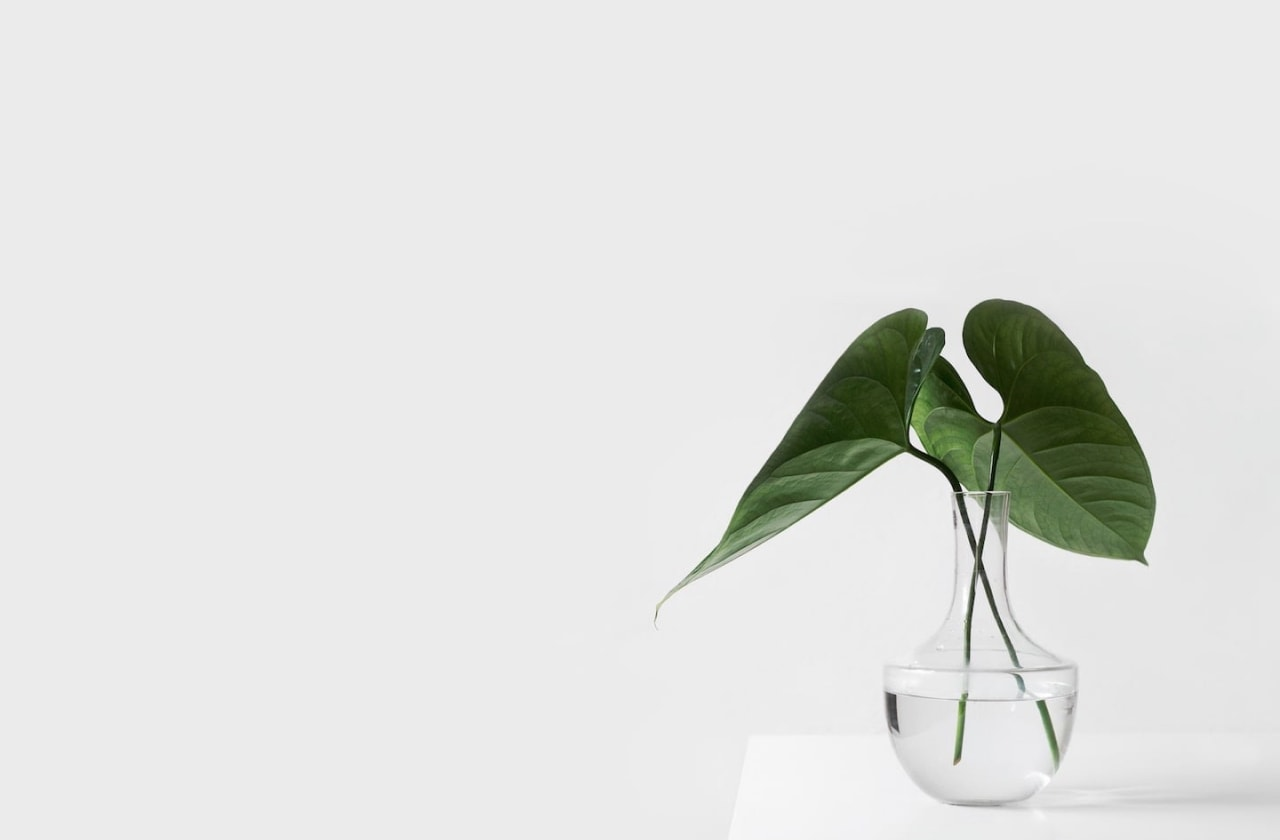
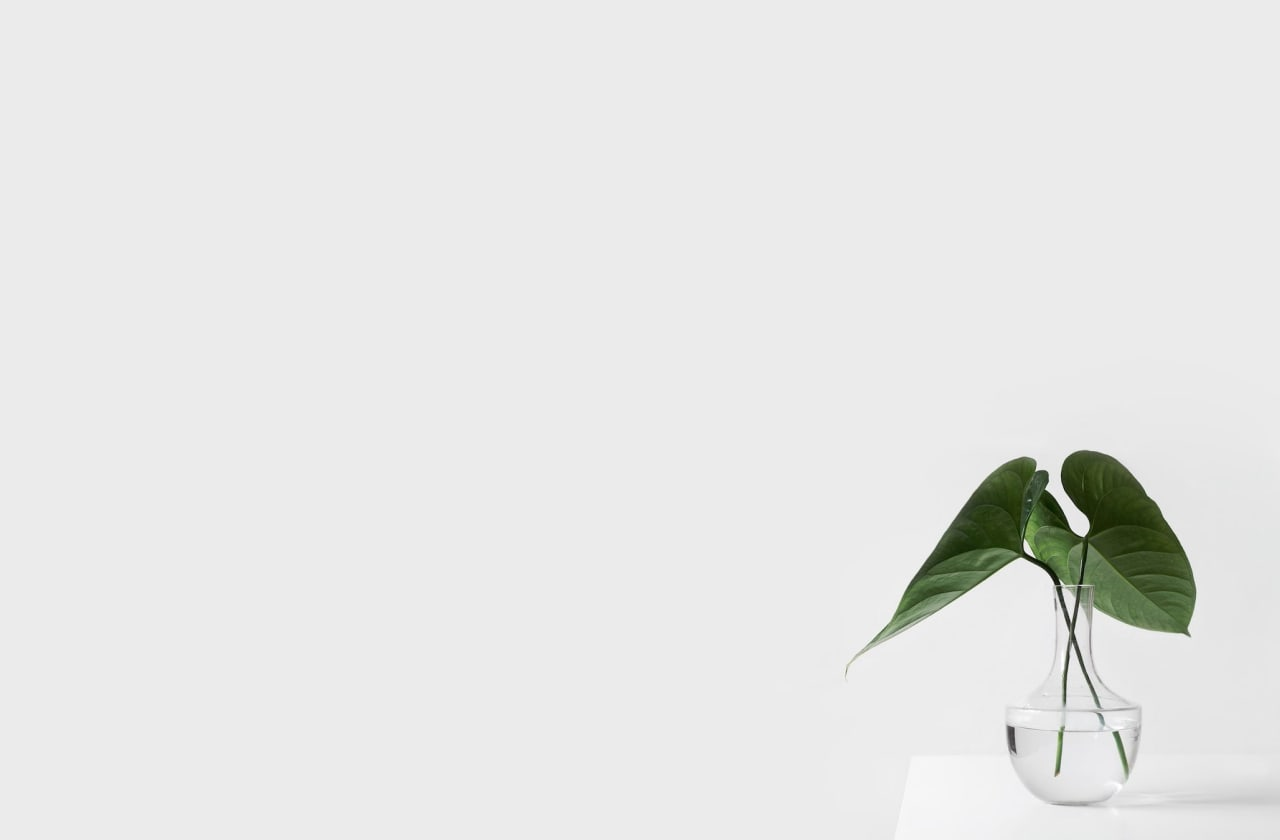
New texts
Пришел арт-директор и сказал всё переделать.

Changed region(s): [[0.5312, 0.3405, 0.9375, 0.9905]]

diff --git a/index.html b/index.html
@@ -10,10 +10,9 @@
 
 <h1 class="title">Месяц осознанности, <span class="subtitle">хороших привычек и любви к себе</span></h1>
 
-<p>
-    Бесплатная почтовая рассылка. 30 дней, 30 писем.<br/>
-    Становитесь осознанней каждый день, выполняя одно<br/>
-    небольшое задание. 
+<p class="column">
+    Это бесплатная почтовая рассылка, которая помогает жить осознанной жизнью.
+    30 дней, 30 писем. Становись осознанней каждый день, выполняя одно небольшое задание.
 </p>
 
 <form class="form" action="https://twitter.us3.list-manage.com/subscribe/post?u=691480b0f51ae9c76f11121f1&amp;id=1beeb1b63a" method="post" target="_blank">
@@ -21,14 +20,21 @@
     <input type="submit" value="Подписаться"/>
 </form>
 
-<h2 class="subtitle">Что-что? Какая такая осознанность?</h2>
-
 <p class="column">
-    Каждый день вы будете получать письмо с небольшим заданием — что делать и что это дает. 
-    Задания можно выполнять в тот же день, либо на следующий.<br/>
-</p>    
+  Подпишись, и ты будешь получать каждый день письмо с небольшим заданием — что делать и что это дает. Задания можно выполнять в тот же день, либо на следующий. Всего 30 писем.
+  </br></br>
+  Каждое задание приближает тебя к осознанной жизни: медитировать 5 минут, отказаться на день от телефона, не заходить в соц. сети и так далее.
+  </br></br>
+  Большинство заданий можно превратить в регулярную практику, поэтому если тебе что-то понравилось, продолжай. Если ты хотел выполнить практику, но забыл, ничего страшного — выполни её в другой день.
+</p>
 
 <img src="public/letter.png" alt="" class="screen">
+
+<h2 class="subtitle">Что такое осознанность?</h2>
+
+<p class="column">
+  Осознанность — состояние «здесь и сейчас». Умение чувствовать каждый момент, а не проживать жизнь на автомате. Осознанность помогает быть счастливее, лучше себя чувствовать, находить время для любимых занятий и острее проживать жизнь.
+</p>
 
 <h2 class="subtitle">Авторы</h2>
 
@@ -39,7 +45,7 @@
             Владимир<br/>Кутовой
         </li>
     </a>
-    
+
     <a href="http://medium.com/@ksenia_ilinyh" target="_blank">
         <li>
             <img src="public/ksenia.jpg"/>
@@ -56,10 +62,7 @@
 </ul>
 
 <p class="column">
-    Мы&nbsp;прочитали много книг&nbsp;— об&nbsp;осознанности, минимализме, эссенциализме,
-    о&nbsp;правильном сне и&nbsp;питании, о&nbsp;личных финансах. Участвовали во всяких онлайн-движухах,
-    слушали подкасты, читали лонгриды. Это&nbsp;помогает&nbsp;нам быть счастливее, лучше себя чувствовать,
-    иметь свободное время для&nbsp;любимых занятий и&nbsp;острее проживать жизнь. Все,&nbsp;что&nbsp;мы&nbsp;предлагаем вам сделать, мы&nbsp;делали&nbsp;сами.
+    Мы прочитали много книг — об осознанности, минимализме, эссенциализме, о правильном сне и питании. Участвовали во всяких онлайн-движухах, слушали подкасты, читали лонгриды. Все, что мы предлагаем тебе сделать, мы делали сами.
 </p>
 
 <form class="form" action="https://twitter.us3.list-manage.com/subscribe/post?u=691480b0f51ae9c76f11121f1&amp;id=1beeb1b63a" method="post" target="_blank">

diff --git a/public/styles.css b/public/styles.css
@@ -1,17 +1,17 @@
 
 body {
-    background-image: url('back.jpg') ;
-	background-position: bottom right;
-	background-repeat:  no-repeat;
-	background-attachment: fixed;
-	background-size:  cover;
-	background-color: #ebebeb;
+    background-image: url('back.jpg');
+  	background-position: bottom right;
+  	background-repeat: no-repeat;
+  	background-attachment: fixed;
+  	background-size: cover;
+  	background-color: #ebebeb;
 
     color: #111;
     font-family: 'Rubik', sans-serif;
     font-size: 20px;
-    line-height: 26px;
-    margin: 50px 80px;
+    line-height: 32px;
+    margin: 100px 160px;
     padding: 0;
 }
 
@@ -27,13 +27,13 @@ body {
     font-size: 20px;
     font-weight: 400;
     font-style: italic;
-    line-height: 30px;
+    line-height: 40px;
 }
 
 .form {
     display: flex;
     flex-direction: row;
-    margin: 30px 0 80px;
+    margin: 50px 0 100px;
 }
 
 input {
@@ -95,10 +95,10 @@ input[type="submit"]:active {
 
 .column {
     max-width: 700px;
+    margin: 30px 0 50px;
 }
 
 .screen {
-	width: 600px;
 	box-shadow: 0px 10px 60px rgba(0, 0, 0, 0.15);
-	margin-bottom: 80px;
+	margin: 30px 0 80px;
 }
